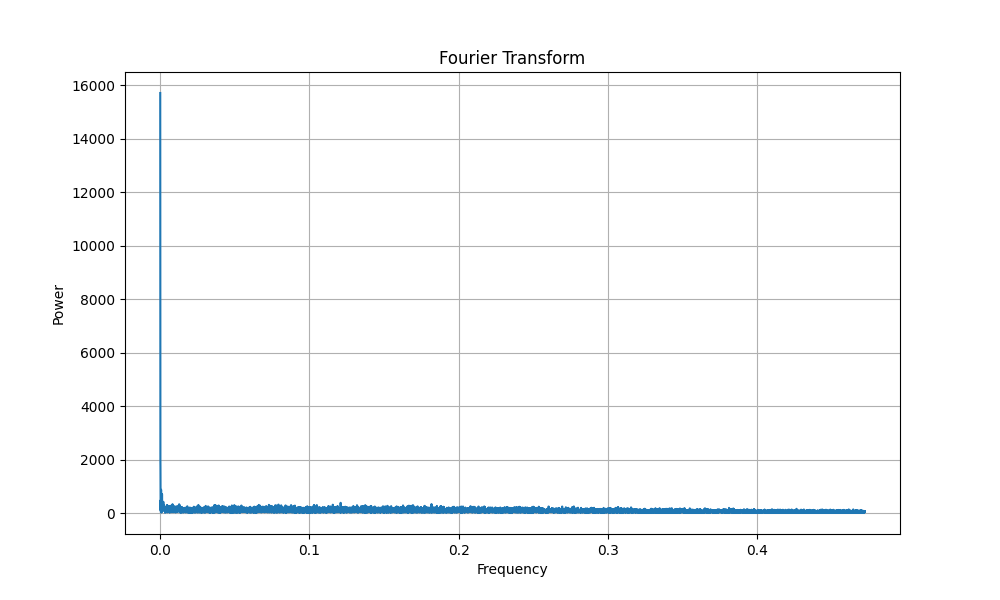
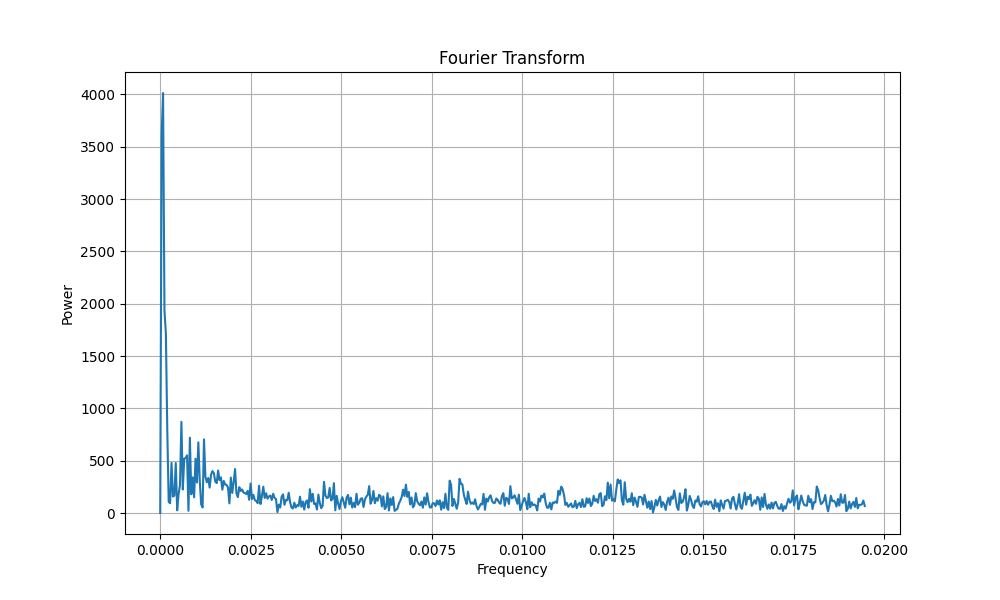
Edited the code to fix the dc error that was causing a zero spike in the fourier transform plot, caused by the signal not being centred around zero.

diff --git a/betelgeuse_lightcurve_fourier.py b/betelgeuse_lightcurve_fourier.py
@@ -15,8 +15,10 @@ magnitude = data["Magnitude"].astype(float)
 # Perform Fourier Transform
 # Convert magnitude to numpy array
 mag = magnitude.to_numpy()
-mag_fft = fft.fft(mag)
-frequencies = fft.fftfreq(len(mag), jd[1] - jd[0])
+mag_mean = np.mean(mag)
+mag_clean = mag - mag_mean
+mag_fft = fft.fft(mag_clean)[0:500]
+frequencies = fft.fftfreq(len(mag_clean), jd[1] - jd[0])[0:500]
 
 
 # Create plot of the light curve